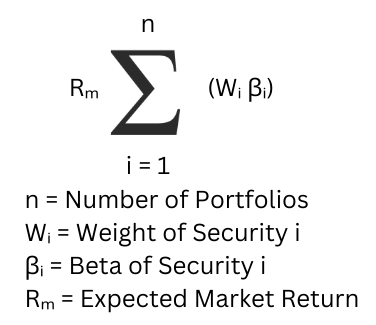
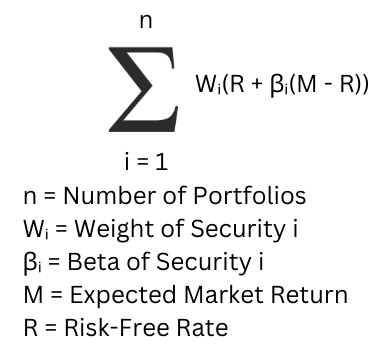
Updated pricing model

diff --git a/README.md b/README.md
@@ -4,3 +4,5 @@ Hey! This is our final assignment for CFM 101! Enjoy.
 Please note that all members made significant contributions. You may notice that Piero made most of the commits, however this was due to technical issues. Often members communicated their changes to Piero, who then changed the file and pushed them.
 
 :)
+
+** Further, Delete above **
